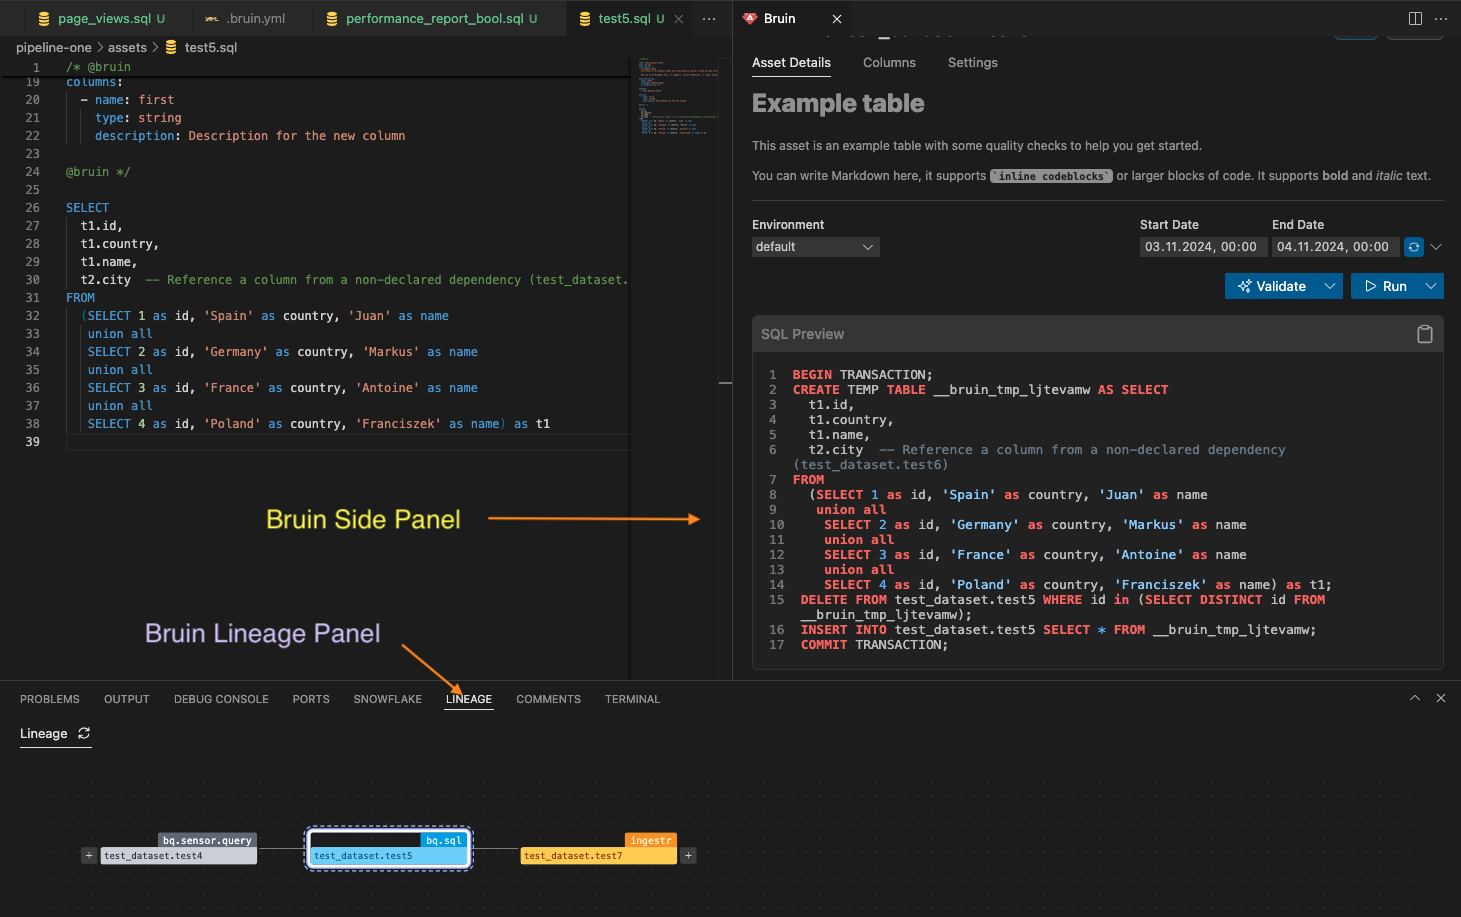
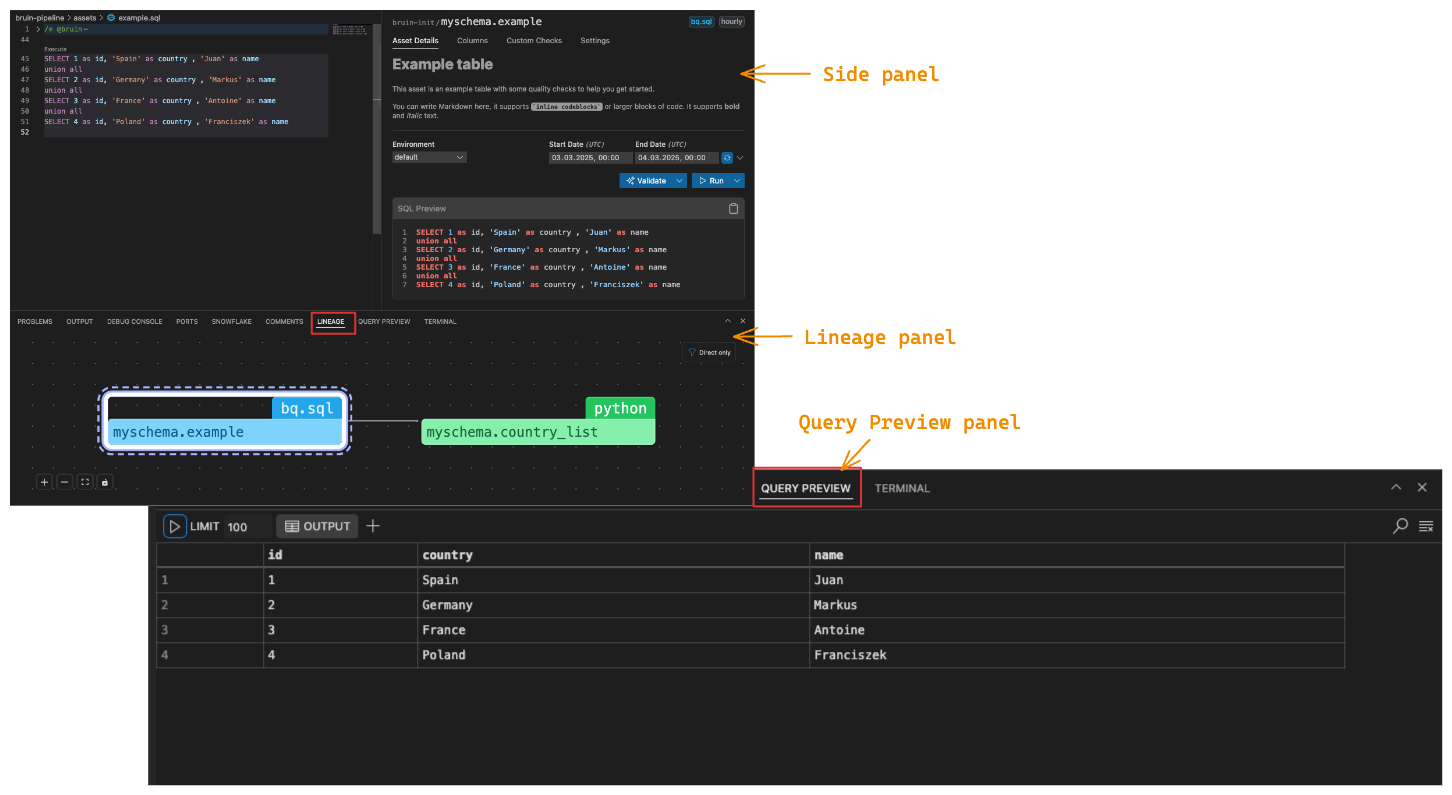
docs: introduce query preview panel to getting started and update panels image

diff --git a/docs/vscode-extension/getting-started.md b/docs/vscode-extension/getting-started.md
@@ -46,5 +46,6 @@ The Bruin extension provides two main panels :
 
 - **Side Panel**: Displays the current asset’s details with tabs for viewing asset information, columns, and settings.
 - **Lineage Panel**: Found at the bottom of VSCode, near the terminal, this panel shows the asset lineage, giving you a visual of how the asset connects to other assets.
+- **Query Preview Panel**: Found near the `Lineage` panel, this panel allows you to preview query results directly within VSCode. When running a query, results will be displayed in this panel, enabling quick debugging and verification without switching to an external database tool.
 
 ![Bruin Panels](../public/vscode-extension/panels/bruin-panels.png)
